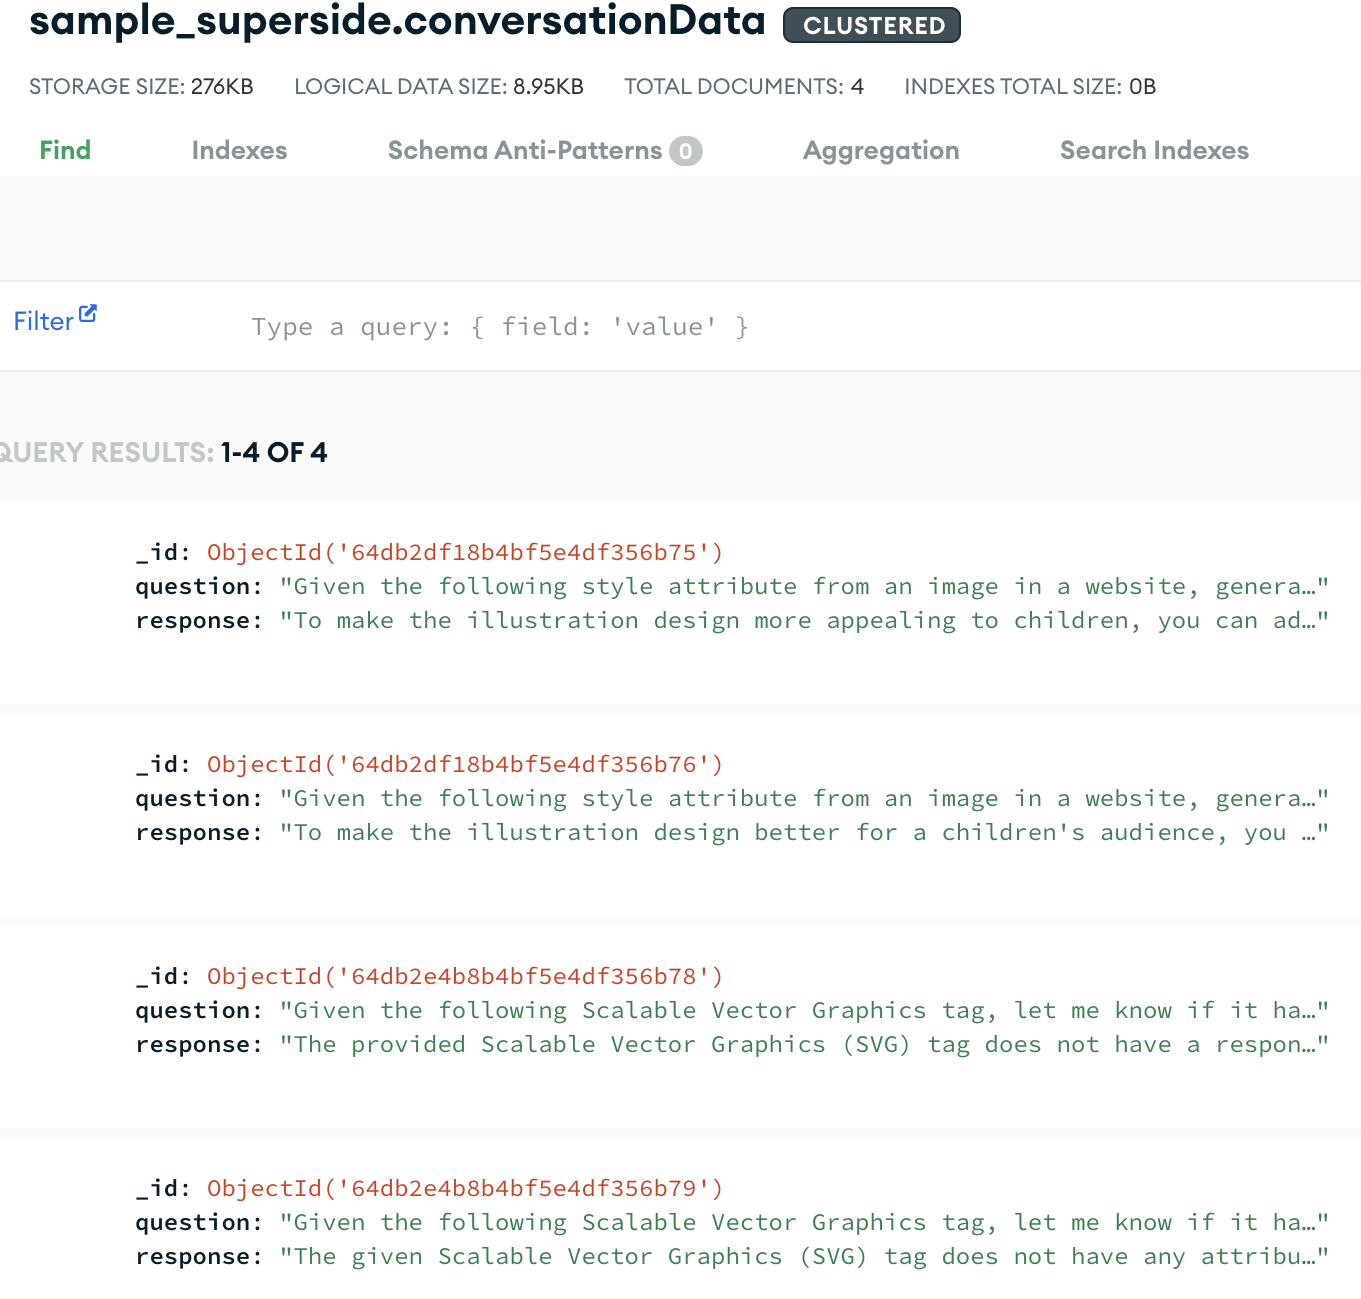
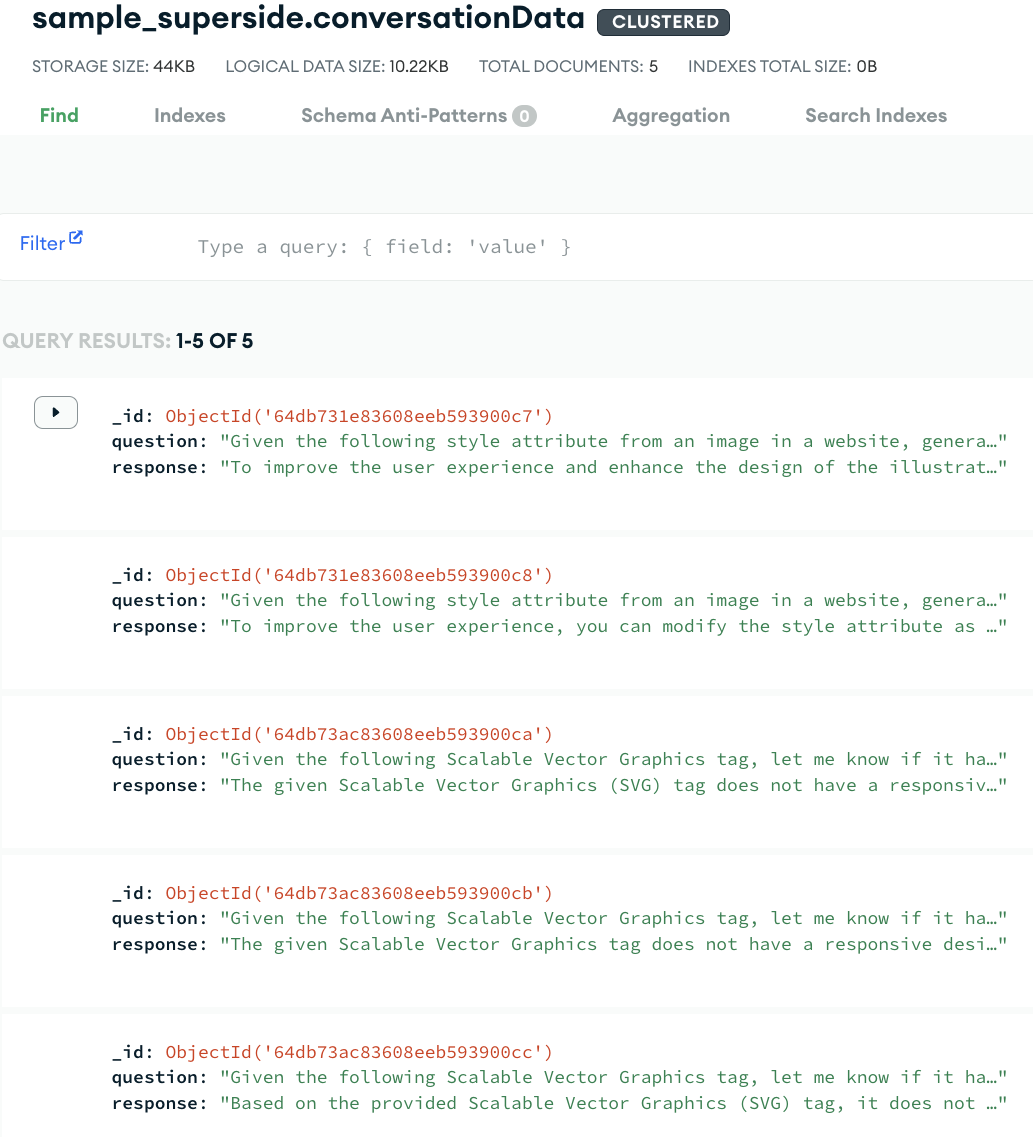
prompt and readme improvements, and changed the RPM rate

diff --git a/src/main.py b/src/main.py
@@ -79,7 +79,7 @@ def main():
             time.sleep(60/3)
             gen_dict.__setitem__(prompt, generated_response)
             j+=1
-            if j==2:
+            if j==3:
                 break
 
         conversation_dict = { "conversation":[ {"question":k, "response":v} for k,v in gen_dict.items() ] }

diff --git a/readme.md b/readme.md
@@ -1,5 +1,6 @@
 # Table of Contents
 - [Introduction](#introduction)
+- [Why This Project?](#why-this-project?)
 - [Data Architecture](#data-architecture)
 - [Running the Project](#running-the-project)
 - [Project Structure](#project-structure)
@@ -12,6 +13,17 @@
 This documentation is intended to show the program' deliverable, [Challenge](docs/Data%20Engineer%20GenAI-Assesment.pdf), that's a end-to-end process starting from a web-scrapping and using the data gathered as an input for a Generative-AI module to enhance customers' understand traits and identify what is resonating best with them, as well the data architecture, 'How to run' guidance, code structure, some decisions made and final thoughts.<br>
 
 The data gathered is loaded in separate layers - raw, staging, and generative-ai - where in the raw layer, there are the files that came from web-scrapping with no treatment, staging layer, there are files with generative-ai prepared data, and generative-ai layer has the response from the open-ai API.
+<br><br>
+
+# Why This Project? <a name="why-this-project?"></a>
+---
+This project was born with the need to improve the superside' website user experience, in order to cause a fantastic firts impression and as a consequence get more customers.
+
+In a nutshell, this program gets all the Images(img tags in the html code) and Scalable Vector Graphics(svg tags in the html code), that's a format to create two-dimensional graphics and animations, with its respective style attribute, that's like a paint palette, a way for to tell the web browser how we want things to look on the webpage, and make question to a generative AI platform to help us responding how can we improve the image style and how to make the SVG - two-dimensional graphics and animations - responsive to ensure that your styles will adapt well to different screen sizes and devices. 
+
+Imagine the user see the a good web page from a computer, but when he/she access from mobile device the experience get worst? Yeah, That's a bad for the final user!
+
+So, we get each style attribute from the website, use it as input for the Chat GPT, and save theses informations in a database to start the creative proccess of analysing and getting insights from them.
 <br><br>
 
 # Data Architecture <a name="data-architecture"></a>
@@ -297,8 +309,6 @@ superside_case/
 │   │   └── mongodb_ops.py
 │   │   └── remove_files.py
 │   │   └── web_tag_scraper.py
-├── tests/
-│   ├── tests.py
 ├── docs/
 │   ├── pictures
 ├── data/
@@ -317,6 +327,8 @@ superside_case/
 ├── config/
 │   ├── config.ini
 └── README.md
+└── requirements.txt
+└── .gitignore
 ```
 
 # Design Decisions <a name="design-decisions"></a>
@@ -326,8 +338,8 @@ superside_case/
         - Json in the MongoDB.<br>
             - As Json files are hierarchical structure, it's easy to represent the nature of HTML which has parent-child relationships.<br>
             - It's commonnly used by APIs and databases for data exchange, so it will be good when we start to connect to APIs.<br>
-            - Support vaious data types, that accomodate the vast types of data from an HTML.<br>
-            - And as the data will be stored in MongoDB, that's a documented-oriented data model, be a JSON is a optimal choose due to the natural fit for this model. You can store varying data structures within the same collection and JSON support for nesting objects which aligns with MongoDB's ability to store nested documents and arrays.
+            - Support various data types, that accomodate the vast types of data from an HTML.<br>
+            - And as the data will be stored in MongoDB, that's a documented-oriented data model, be a JSON is a optimal choice due to the natural fit for this model. You can store varying data structures within the same collection and JSON support for nesting objects which aligns with MongoDB's ability to store nested documents and arrays.
 
 
 - Scraping<br>
@@ -351,4 +363,5 @@ superside_case/
 ---
 Check about the rate and maximum tokens<br>
 Prompt evaluation<br>
+Create the description for each function
 ...
